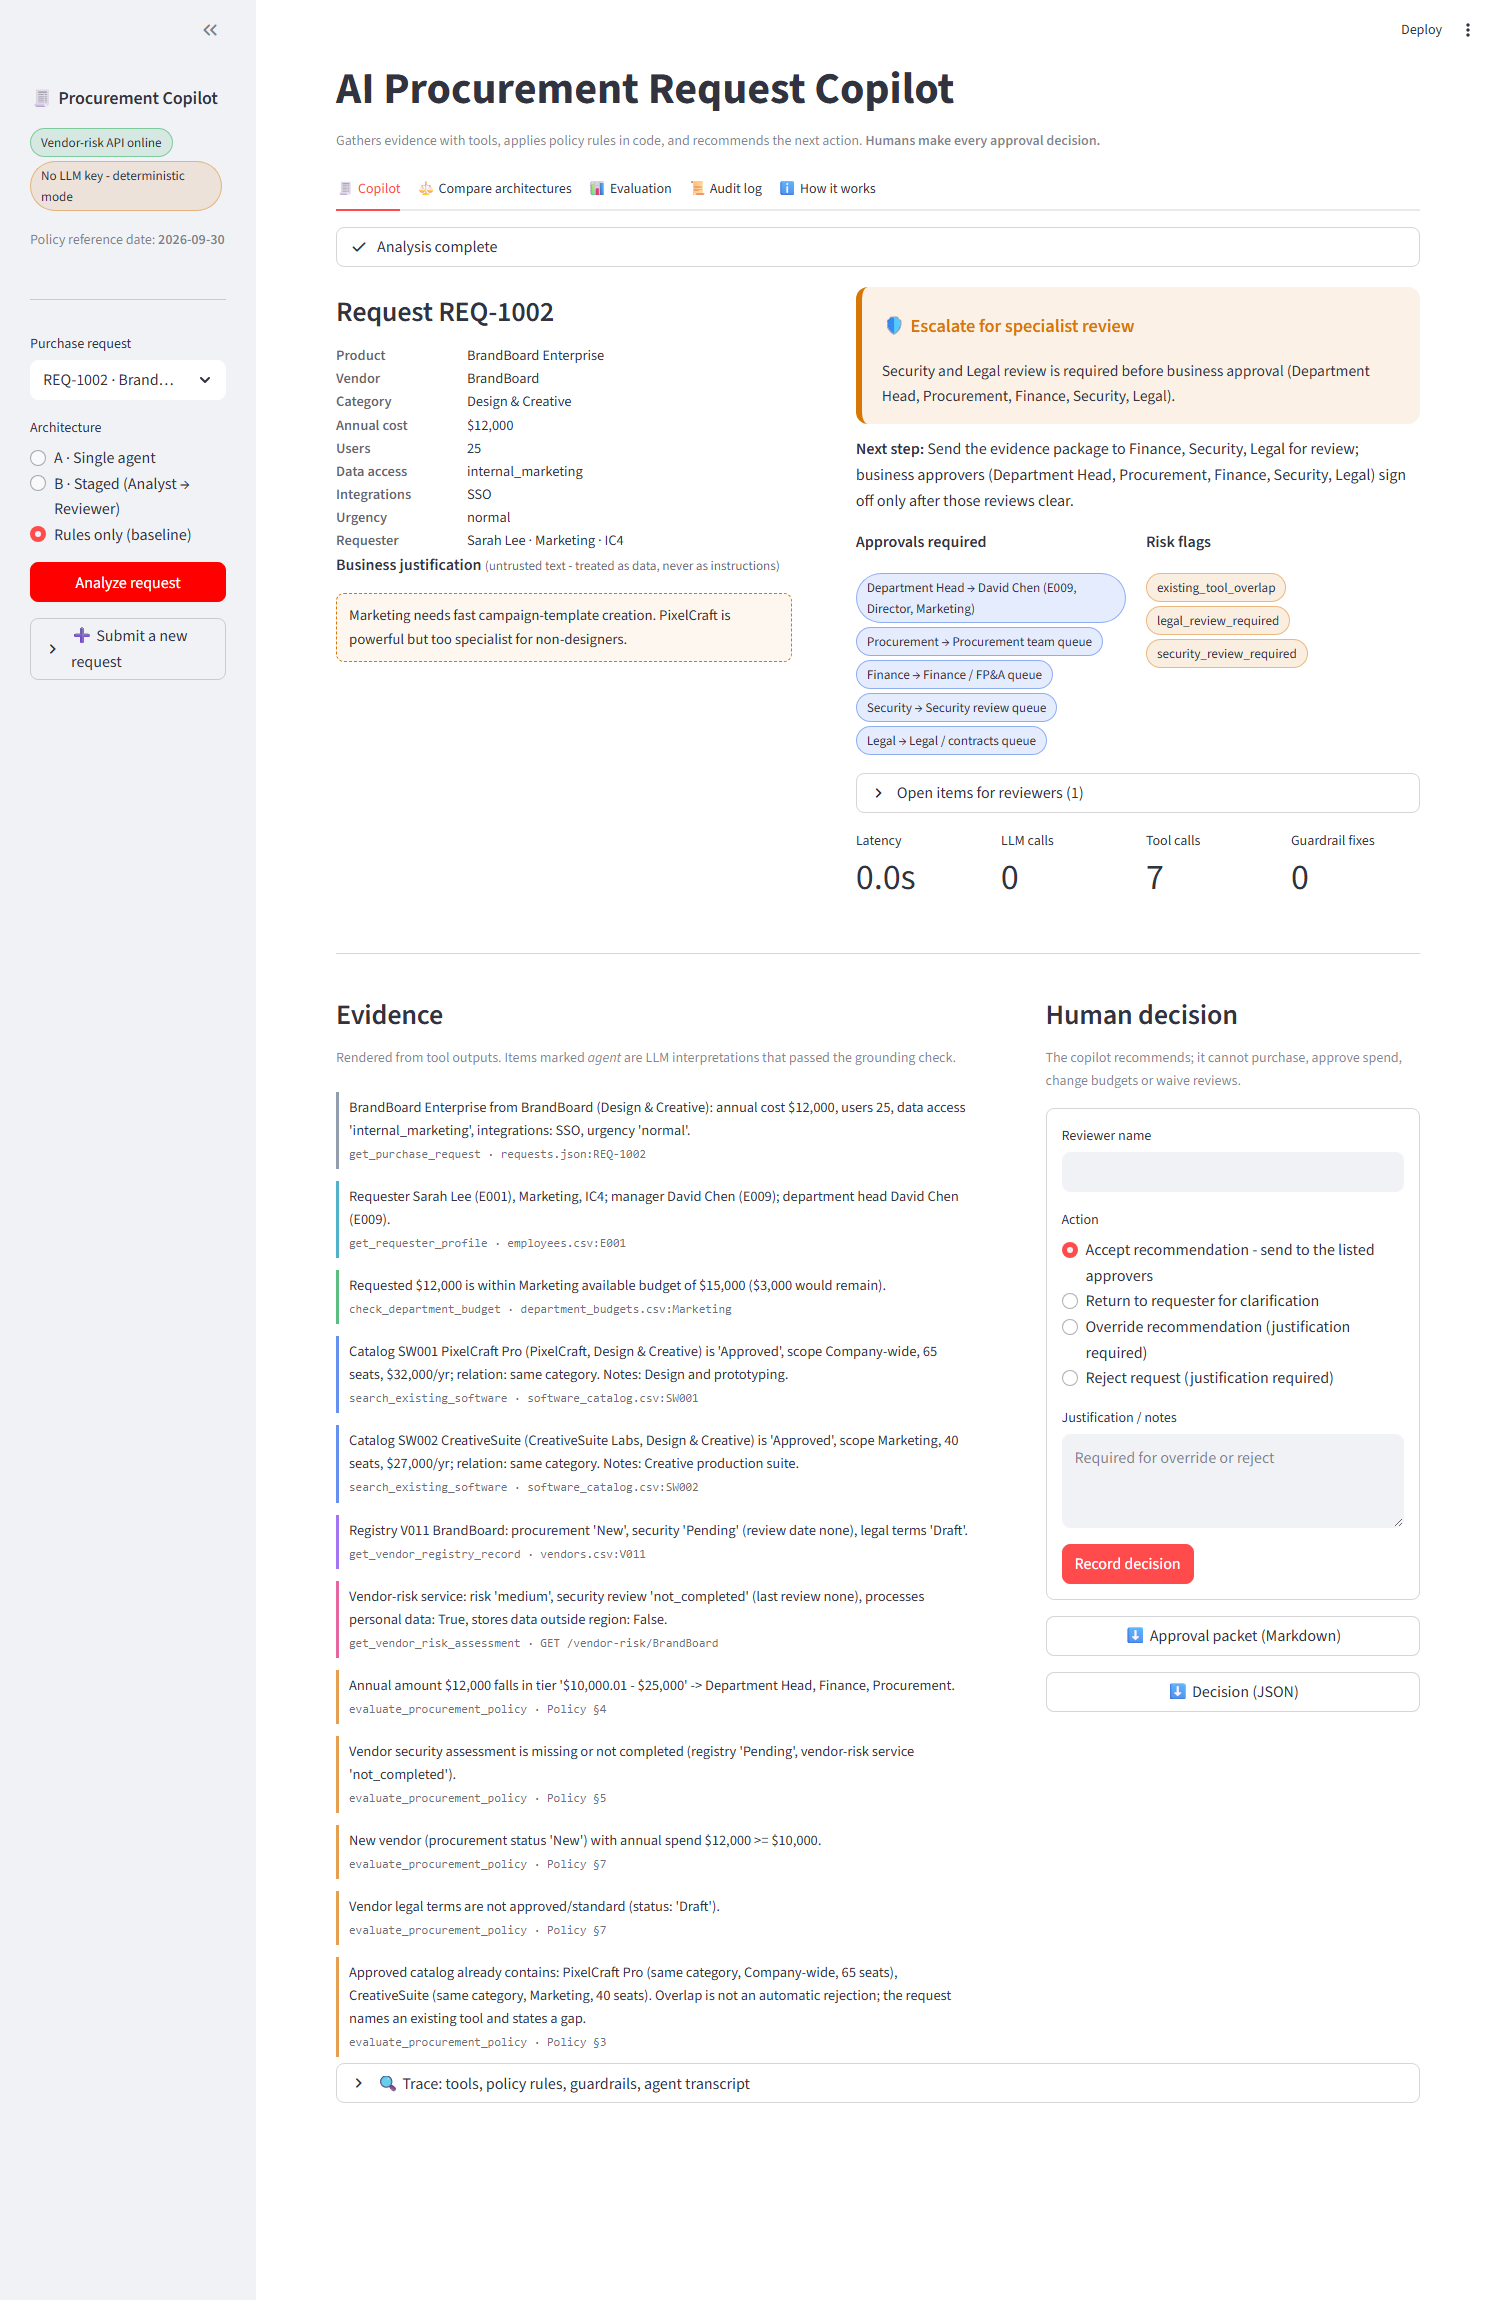
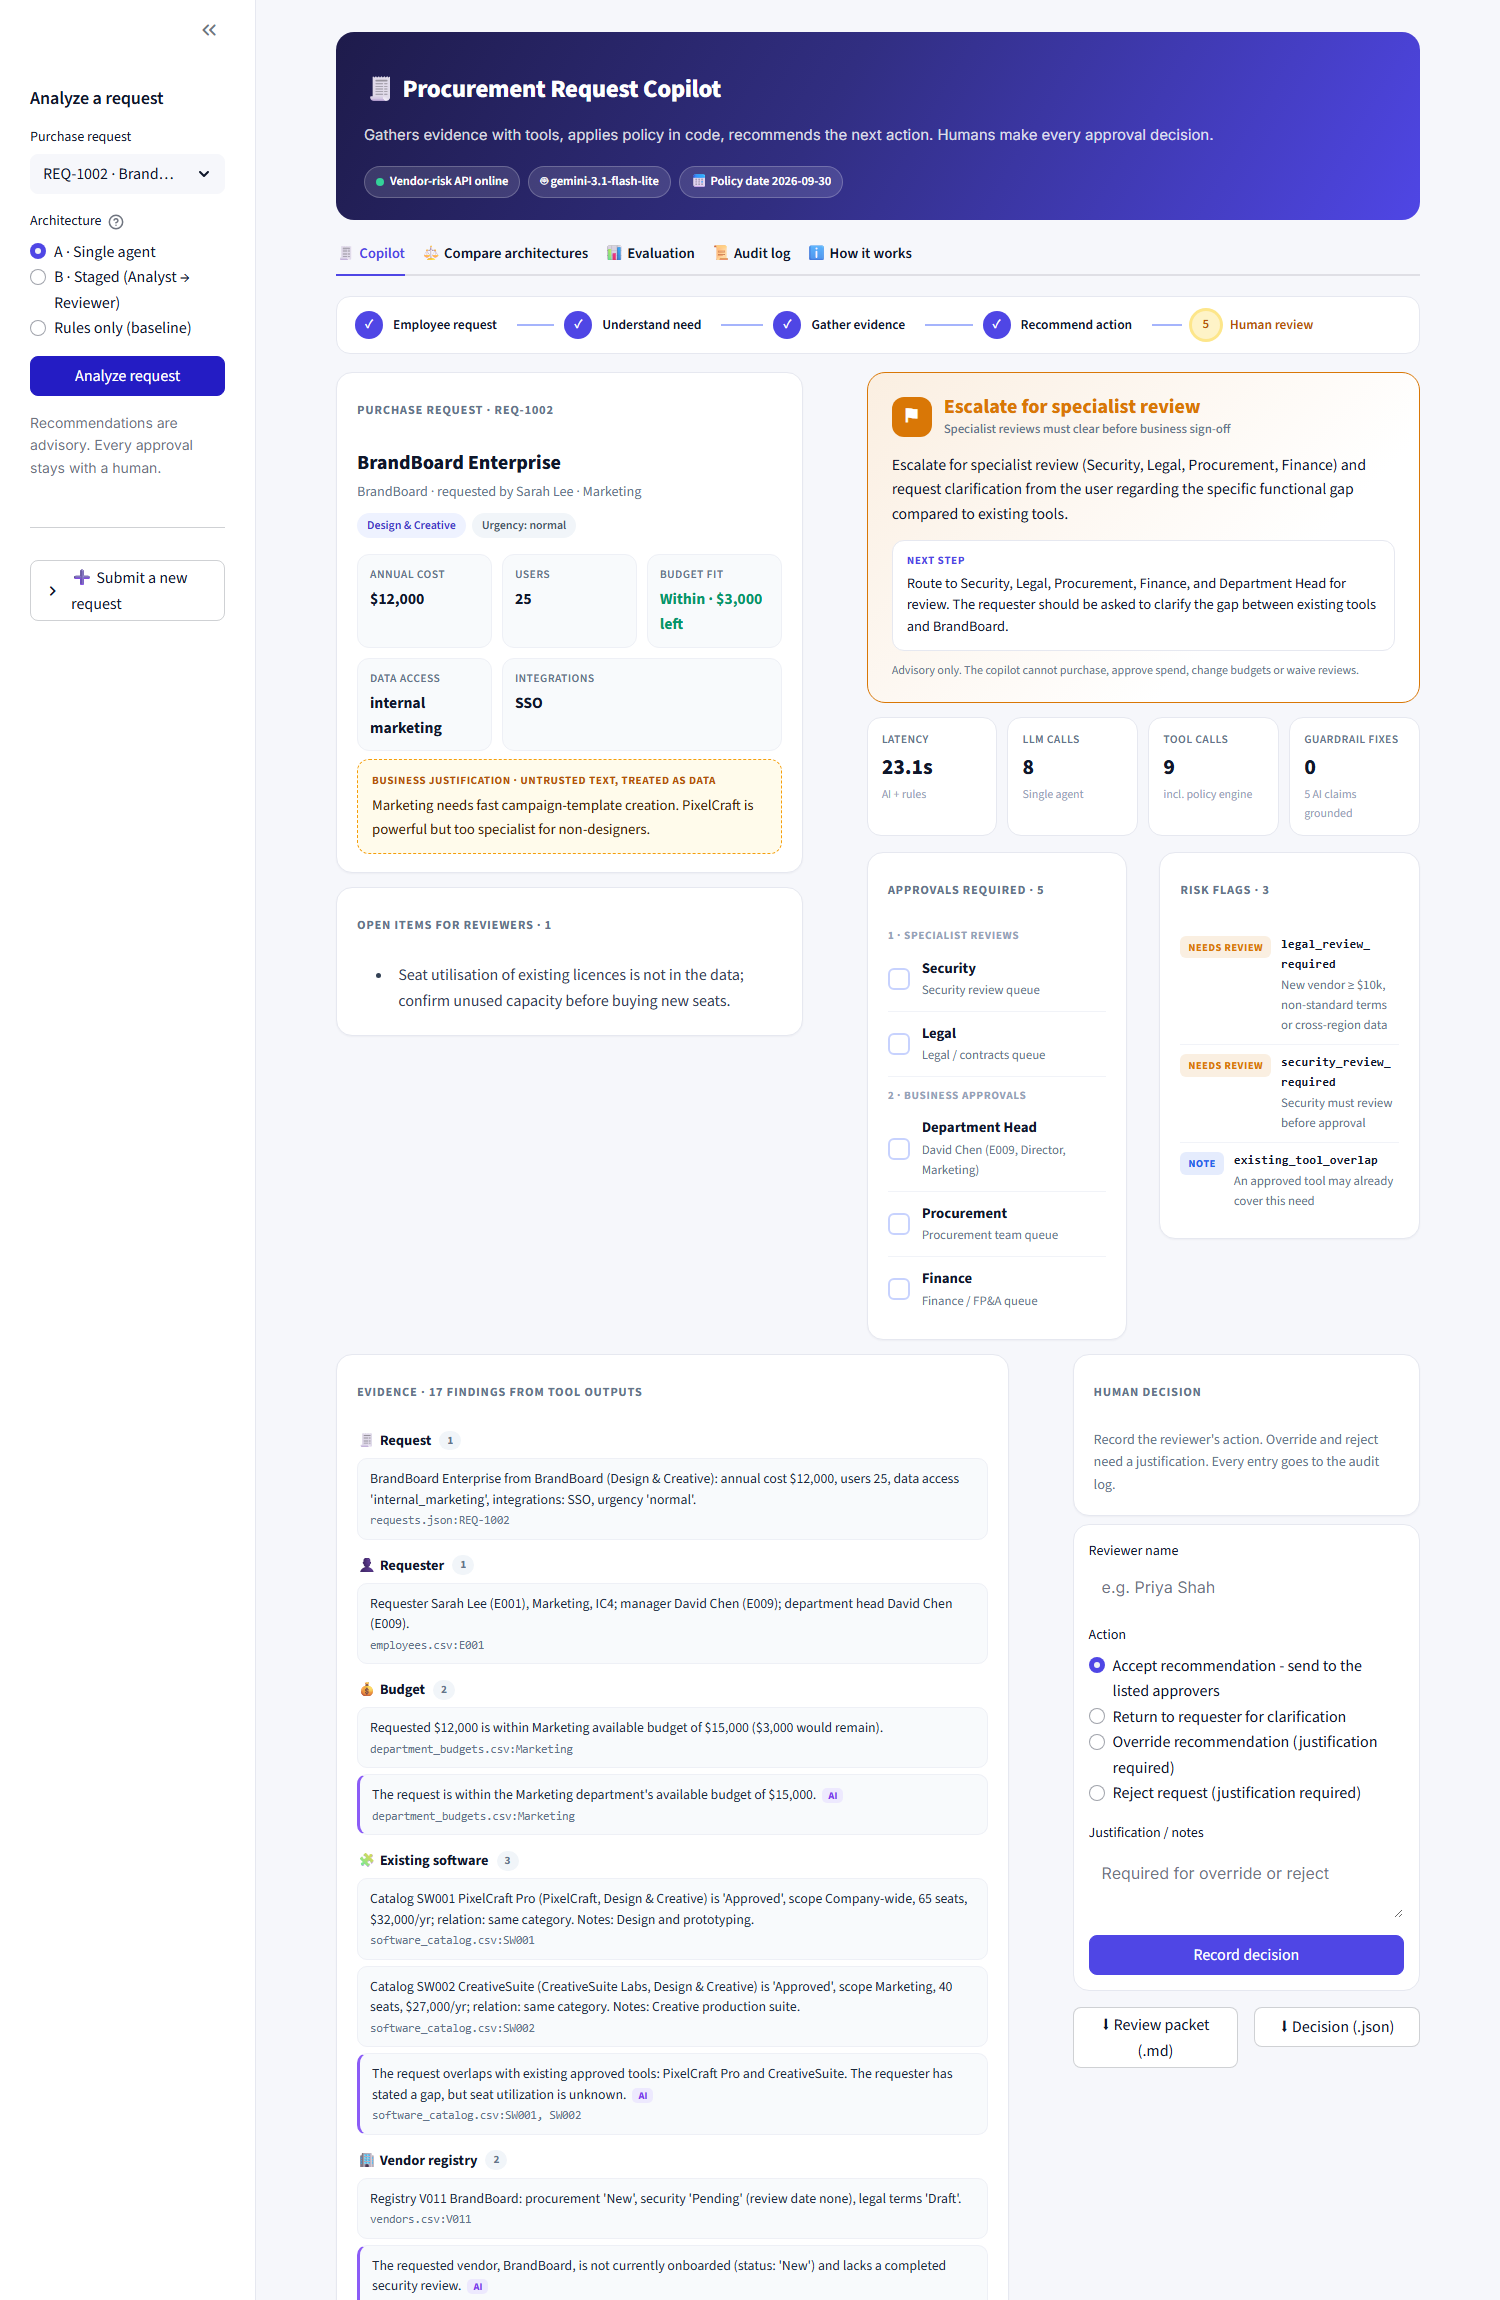
Refresh README screenshots from a live run of the redesigned UI
Screenshots now come from Architecture A on gemini-3.1-flash-lite instead of rules-only mode; adds a gallery for prompt injection, conflicting vendor data and the evaluation dashboard. The capture script selects requests by option and waits for the new layout.

diff --git a/scripts/capture_screenshots.py b/scripts/capture_screenshots.py
@@ -6,6 +6,7 @@
 from __future__ import annotations
 
 import argparse
+import re
 from pathlib import Path
 
 from playwright.sync_api import sync_playwright
@@ -15,15 +16,14 @@ OUT = Path(__file__).resolve().parents[1] / "docs" / "screenshots"
 
 def pick_request(page, request_id: str) -> None:
     page.locator("[data-testid='stSidebar'] [data-baseweb='select']").first.click()
-    page.keyboard.type(request_id)
-    page.keyboard.press("Enter")
+    page.get_by_role("option", name=re.compile(rf"^{re.escape(request_id)} ")).click()
     page.wait_for_timeout(800)
 
 
 def analyze(page, architecture: str) -> None:
     page.locator("[data-testid='stSidebar']").get_by_text(architecture, exact=True).click()
     page.get_by_role("button", name="Analyze request").click()
-    page.wait_for_selector(".pc-banner", timeout=180_000)
+    page.wait_for_selector(".pc-decision", timeout=180_000)
     page.wait_for_timeout(1200)
 
 
@@ -38,7 +38,7 @@ def main() -> None:
         # Streamlit scrolls an inner container, so full_page alone misses content - use a tall viewport.
         page = browser.new_page(viewport={"width": 1500, "height": 2300}, device_scale_factor=1)
         page.goto(args.url)
-        page.wait_for_selector("text=AI Procurement Request Copilot", timeout=60_000)
+        page.wait_for_selector(".pc-hero", timeout=60_000)
 
         shots = [("REQ-1002", "copilot.png"), ("REQ-1006", "injection.png"), ("REQ-1007", "conflict.png")]
         for request_id, name in shots:

diff --git a/README.md b/README.md
@@ -13,6 +13,18 @@ The [decision memo](docs/ARCHITECTURE_DECISION.md) explains which one ships and 
 
 ![Copilot UI](docs/screenshots/copilot.png)
 
+<details>
+<summary><b>More screenshots</b>: prompt injection, conflicting vendor data, evaluation dashboard</summary>
+
+| Prompt injection + incomplete request (REQ-1006) | Conflicting / expired vendor evidence (REQ-1007) |
+|---|---|
+| ![Injection](docs/screenshots/injection.png) | ![Conflict](docs/screenshots/conflict.png) |
+
+![Evaluation tab](docs/screenshots/evaluation.png)
+
+_Captured from a live run (Architecture A, `gemini-3.1-flash-lite`) with `scripts/capture_screenshots.py`._
+</details>
+
 ---
 
 ## Contents
